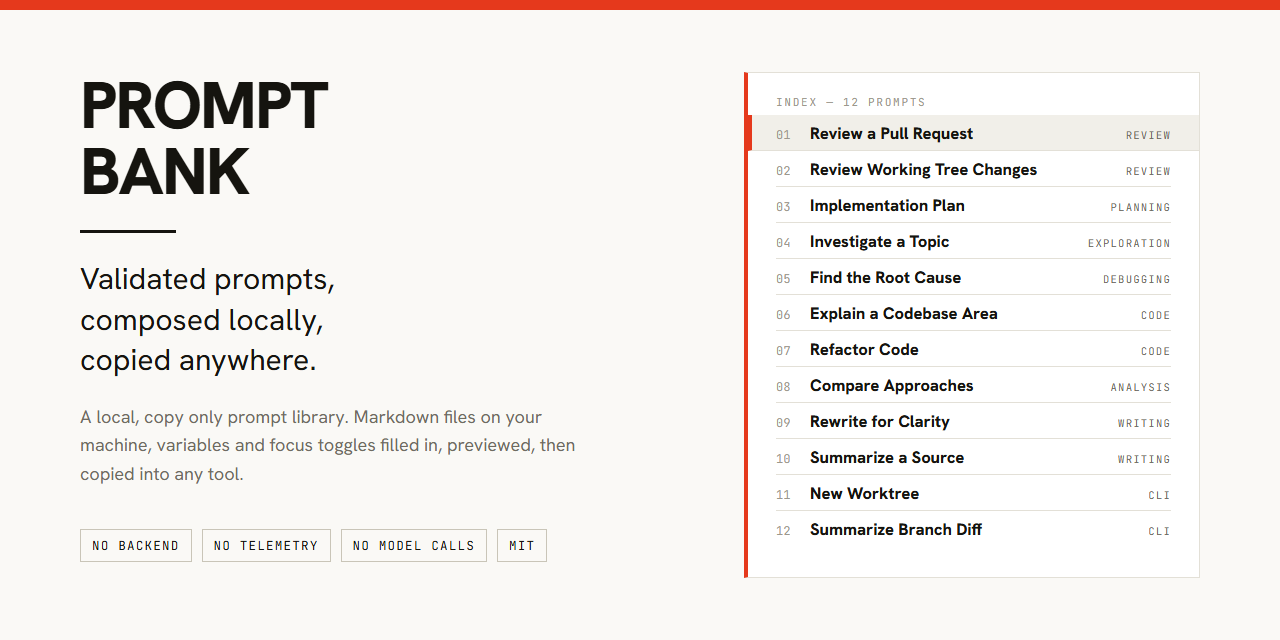
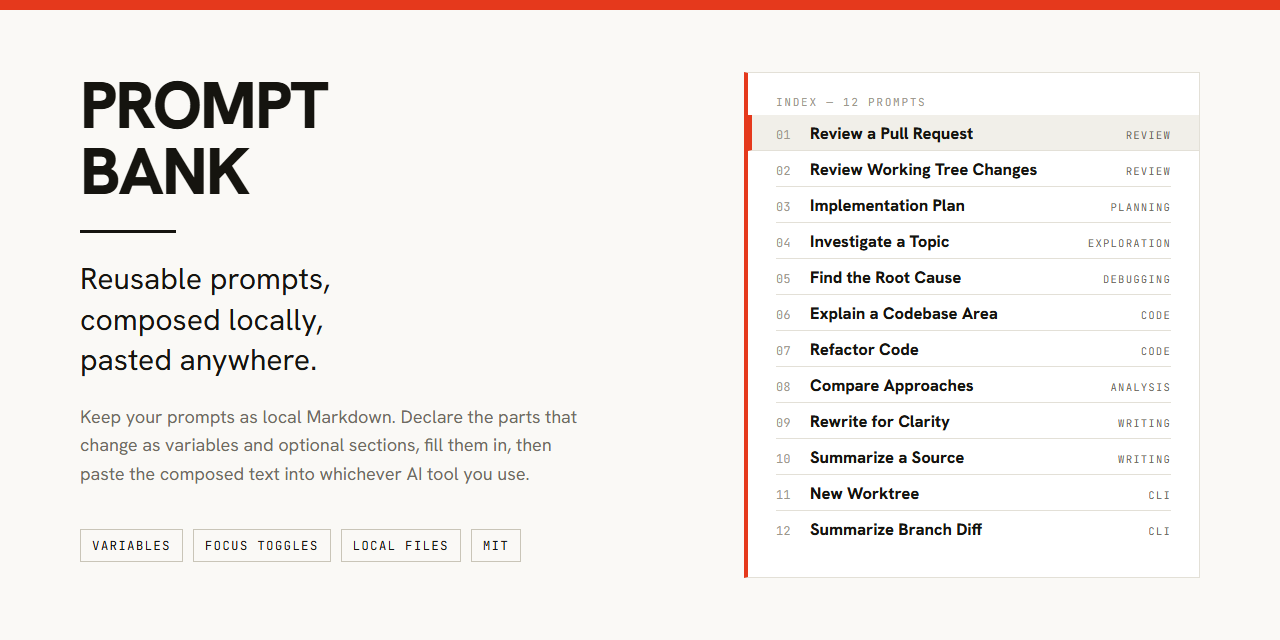
Lead the public surfaces with what the app is for
Every public surface described what Prompt Bank refuses to do before what
it does. The README used "never" eight times across thirty-two negation
words, and four of its five opening sentences named absent capabilities.
The social card, which is what a shared link renders, spent three of its
four badges on negations.

Privacy is worth stating, but as a property of owning plain files rather
than as a list of refusals. Lead with the problem instead: a prompt you
rely on ends up in a dozen drifting copies, and one of them is missing a
constraint. Then the mechanism, then ownership as a capability, diffable
and greppable and committable, and only then the boundary.

Drop "copy only" from the pitch. It survives in the Security section,
which should stay blunt. Because deleting it could leave a reader assuming
the model preset dropdown calls a model, the intro now says positively
where the workflow ends: compose here, paste into the tool you already
use.

Surfaces updated: the README intro, Why, and How it works; the bundle
short and long descriptions, which ship inside the installer and show in
operating system program lists; the social card copy and badges; the
masthead tagline; the release body, which previously opened with signing
warnings and never said what the app was; the empty state, which gains one
sentence and keeps its paths and Refresh guidance; and the package
description.

The repository description and topics are set outside git. The no-backend
[…]

diff --git a/src/components/EmptyPrompts.tsx b/src/components/EmptyPrompts.tsx
@@ -142,9 +142,13 @@ export function EmptyPrompts({ scope, folderLabel }: Props) {
         {isFolder ? `${folderLabel ?? 'This folder'} has no prompts yet` : 'Nothing to compose yet'}
       </h2>
       <p className={styles.body}>
+        A prompt is a Markdown file. Declare the parts that change as variables and optional sections, and Prompt Bank
+        turns it into a form you fill in and paste.
+      </p>
+      <p className={styles.body}>
         {isFolder
-          ? 'Prompt Bank reads Markdown files from a .prompt-bank directory inside the folder you opened. Create one, drop a prompt in it, and press Refresh.'
-          : 'Prompt Bank reads Markdown files from disk. Add one in either place below, then press Refresh.'}
+          ? 'Prompt Bank reads those files from a .prompt-bank directory inside the folder you opened. Create one, drop a prompt in it, and press Refresh.'
+          : 'Prompt Bank reads those files from disk. Add one in either place below, then press Refresh.'}
       </p>
 
       <ul className={styles.pathList}>

diff --git a/src/App.tsx b/src/App.tsx
@@ -374,7 +374,7 @@ export default function App() {
         <div className={styles.mastheadInner}>
           <div className={styles.brand}>
             <h1 className={styles.wordmark}>Prompt&nbsp;Bank</h1>
-            <span className={styles.tagline}>File-backed prompt library — copy only</span>
+            <span className={styles.tagline}>Compose reusable prompts from Markdown</span>
           </div>
           <span className={styles.mastheadActions}>
             {desktop ? (

diff --git a/README.md b/README.md
@@ -1,10 +1,14 @@
 # Prompt Bank
 
-Validated prompts, composed locally, copied anywhere.
+Reusable prompts as local Markdown, composed and ready to paste.
 
-Prompt Bank is a local, copy only prompt library. It runs as a desktop app that keeps your prompts on your machine: store them as Markdown, fill their variables and optional sections, preview the composed text, then copy it into any tool. There is no account, no backend, and no model call. Prompt Bank does not send your prompt content anywhere; it leaves the app only when you copy it to your clipboard.
+A prompt you rely on tends to exist in a dozen slightly different forms: copies scattered across chats, notes, and gists, each drifting a little from the last. Somewhere along the way a constraint gets dropped, or you paste a stale variant and do not notice until the answer comes back wrong.
+
+Prompt Bank keeps the canonical version in a Markdown file and declares the parts that change as variables and optional sections. The app turns that file into a form: fill the inputs, toggle the sections you want, watch the composed text update, then paste it into whichever AI tool you already use.
 
 ![The Prompt Bank interface](docs/screenshot.png)
+
+Because prompts are plain files, they stay yours. You can diff them, grep them, and commit them alongside the project they belong to, with no account and nothing to export if you walk away. Keep a personal set in `~/.prompt-bank/`, and a project specific set in any folder you open. Prompt Bank composes the text and hands it to your clipboard; it does not call a model or send your prompts anywhere.
 
 ## Download
 
@@ -22,11 +26,11 @@ Prefer to build it yourself? See [Building the desktop app](#building-the-deskto
 
 ## Why Prompt Bank
 
-- Local and private. Your prompts stay on your machine. Built in prompts ship with the app; your own global and folder prompts are read at runtime and are never bundled or sent anywhere.
-- Copy only. Prompt Bank renders and copies text. It never executes a prompt, calls a model, or runs a workflow.
-- Structured and validated. Prompts are Markdown files with a small, checked schema, so a broken prompt is caught before you use it.
-- Composable. Declare variables, optional focus toggles, and model preset labels, and the composed text updates live.
-- Your prompts, together. A personal global set and any folder you open appear alongside the built in prompts, each with a source label.
+- Composable. Declare variables, optional focus toggles, and model preset labels, and the composed text updates live as you fill them in.
+- Structured. Prompts are Markdown with a small, checked schema, so a malformed prompt is caught before you rely on it.
+- Yours to keep. Plain files you can diff, grep, and commit next to the code they belong to. No account, no proprietary format, nothing to migrate later.
+- Together in one place. A personal global set and any project folder you open appear alongside the built in prompts, each with a source label.
+- Local. Everything happens on your machine. Prompt Bank renders text and copies it; it never executes a prompt, calls a model, or runs a workflow.
 
 ## The built in prompts
 
@@ -127,7 +131,7 @@ The example prompts under `prompts/` are the built in set and a starting point. 
 
 ## How it works
 
-Prompt Bank is a React and Vite interface inside a Tauri desktop window. The built in prompts are bundled with the app. Your global and folder prompts are read at runtime by a small Rust core, over in process messages, never over a network, and are never written into the app bundle. The folder picker and every private file read happen in Rust; the reader only reads Markdown directly inside a `.prompt-bank` directory, rejects symlinks, and caps how much it will read. The composer substitutes your inputs into the template, applies the enabled focus blocks, and copies the result to your clipboard. There is no backend and no telemetry; your prompt content leaves the app only through the clipboard copy that you trigger.
+Prompt Bank is a React and Vite interface inside a Tauri desktop window. The built in prompts are bundled with the app. Your global and folder prompts are read at runtime by a small Rust core, over in process messages rather than a network, and are not written into the app bundle. The folder picker and every private file read happen in Rust; the reader only reads Markdown directly inside a `.prompt-bank` directory, rejects symlinks, and caps how much it will read. The composer substitutes your inputs into the template, applies the enabled focus blocks, and copies the result to your clipboard. There is no backend and no telemetry, so your prompt content leaves the app only through the clipboard copy that you trigger.
 
 ## Building the desktop app
 
